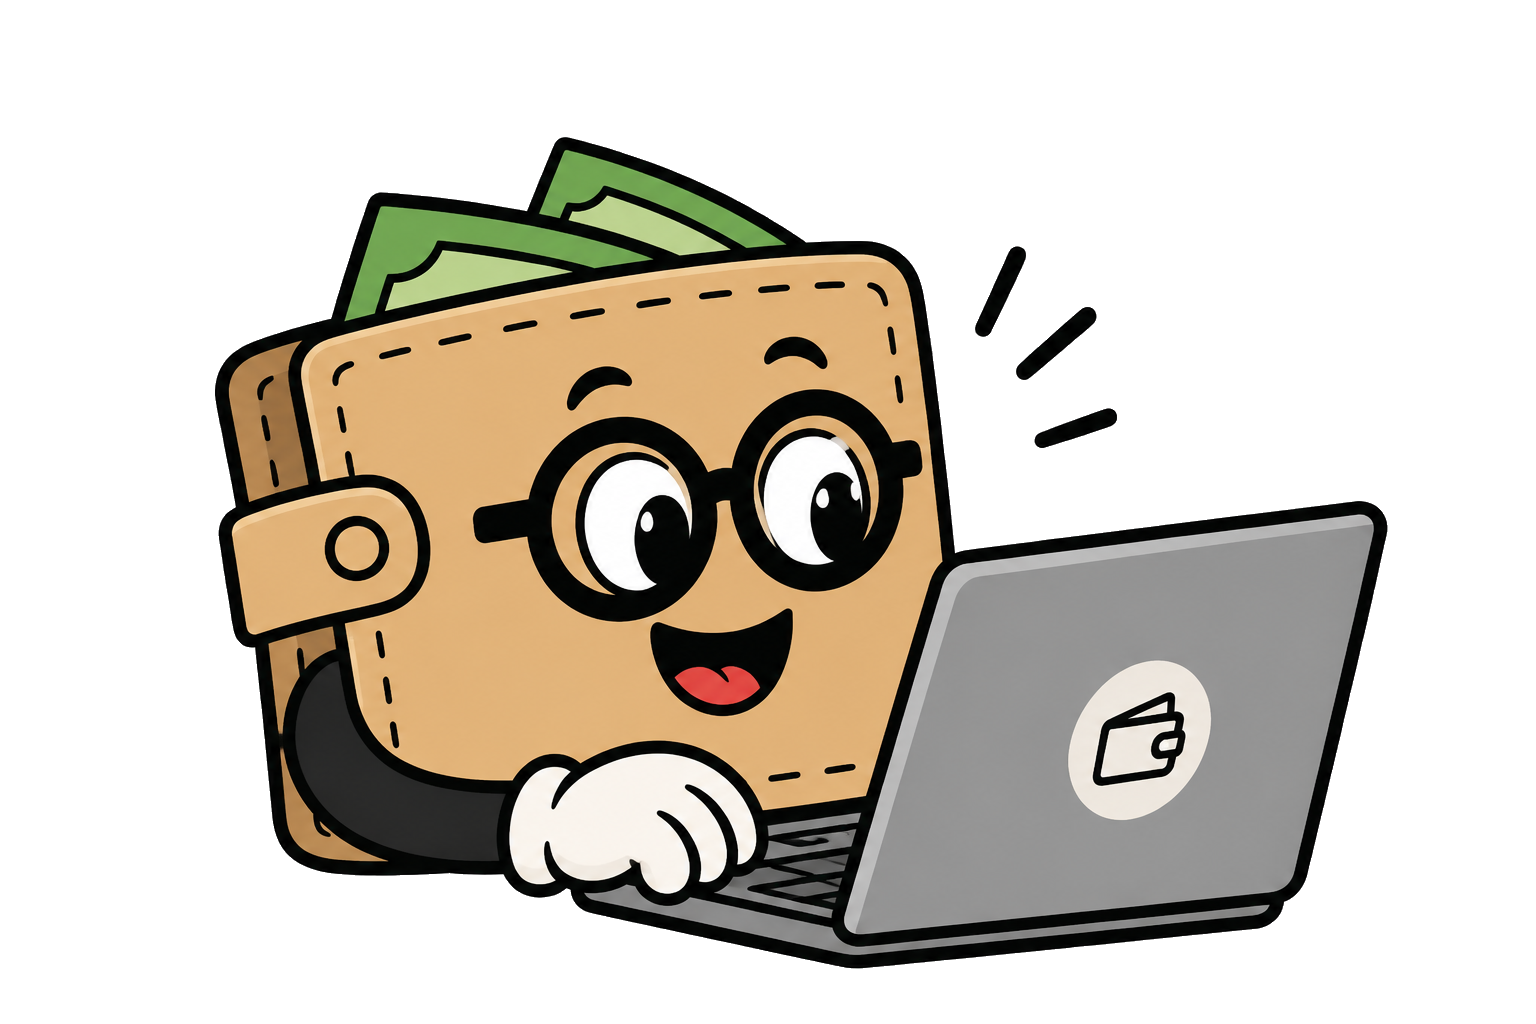
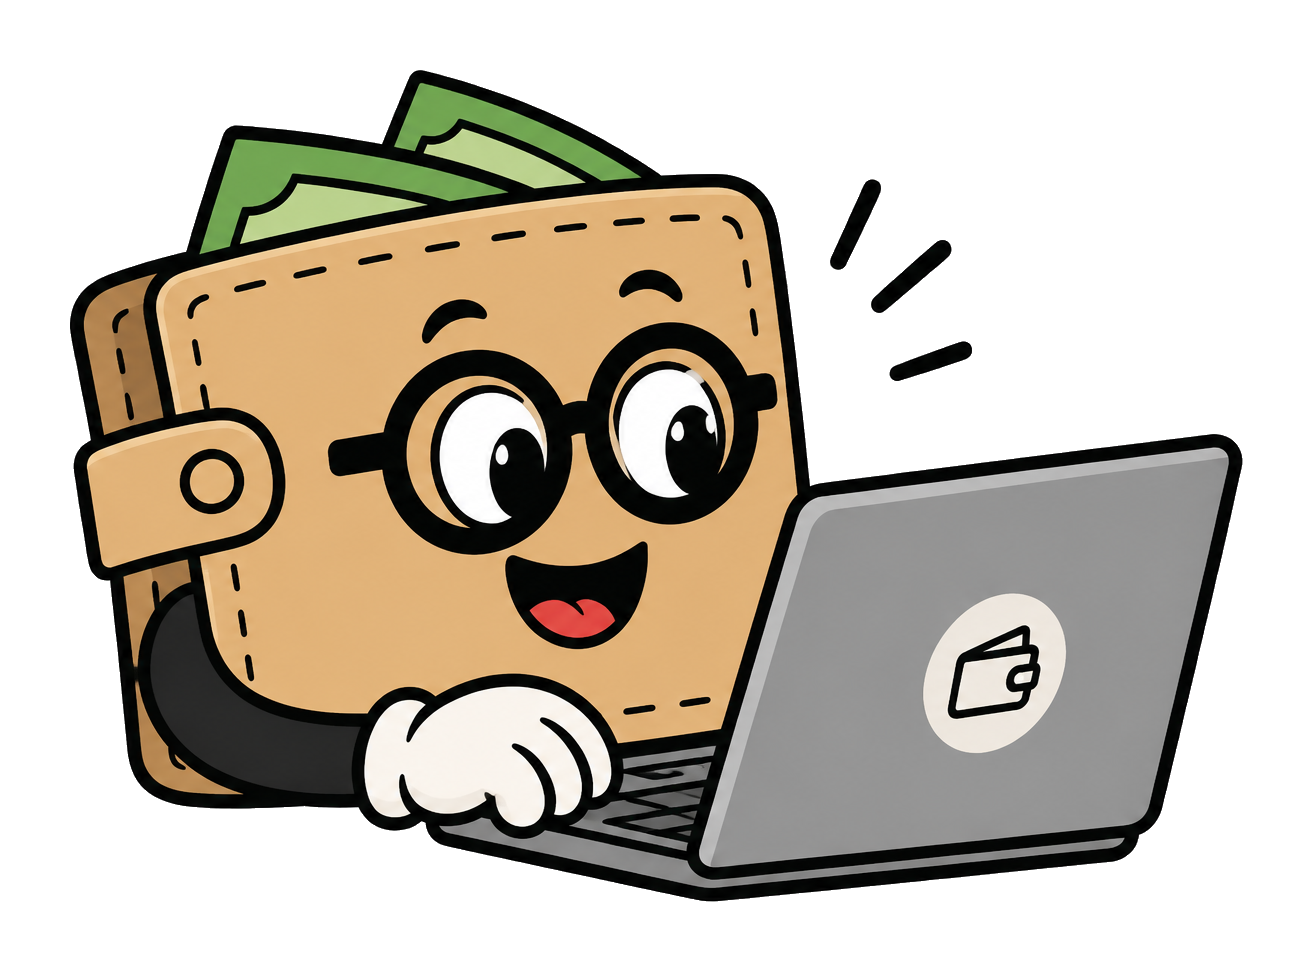
Agrandar íconos: botón Proyección y filas de recurrentes/cuotas
- Waldo Proyeccion.png: recortado ajustado al personaje (el original
  era panorámico 1536x1024 con mucho margen vacío arriba/abajo, así
  que dentro del botón cuadrado quedaba más chico que Categoría y
  Medio de pago). Ahora llena el cuadro de forma pareja.
- .categoria-item__icono img: 28px -> 42px, para las filas "Gastos
  recurrentes" y "Gastos en cuotas" dentro de Proyección.

diff --git a/src/index.css b/src/index.css
@@ -1302,8 +1302,8 @@ body {
 
 .categoria-item__icono img {
   display: block;
-  width: 28px;
-  height: 28px;
+  width: 42px;
+  height: 42px;
   object-fit: contain;
 }
 
